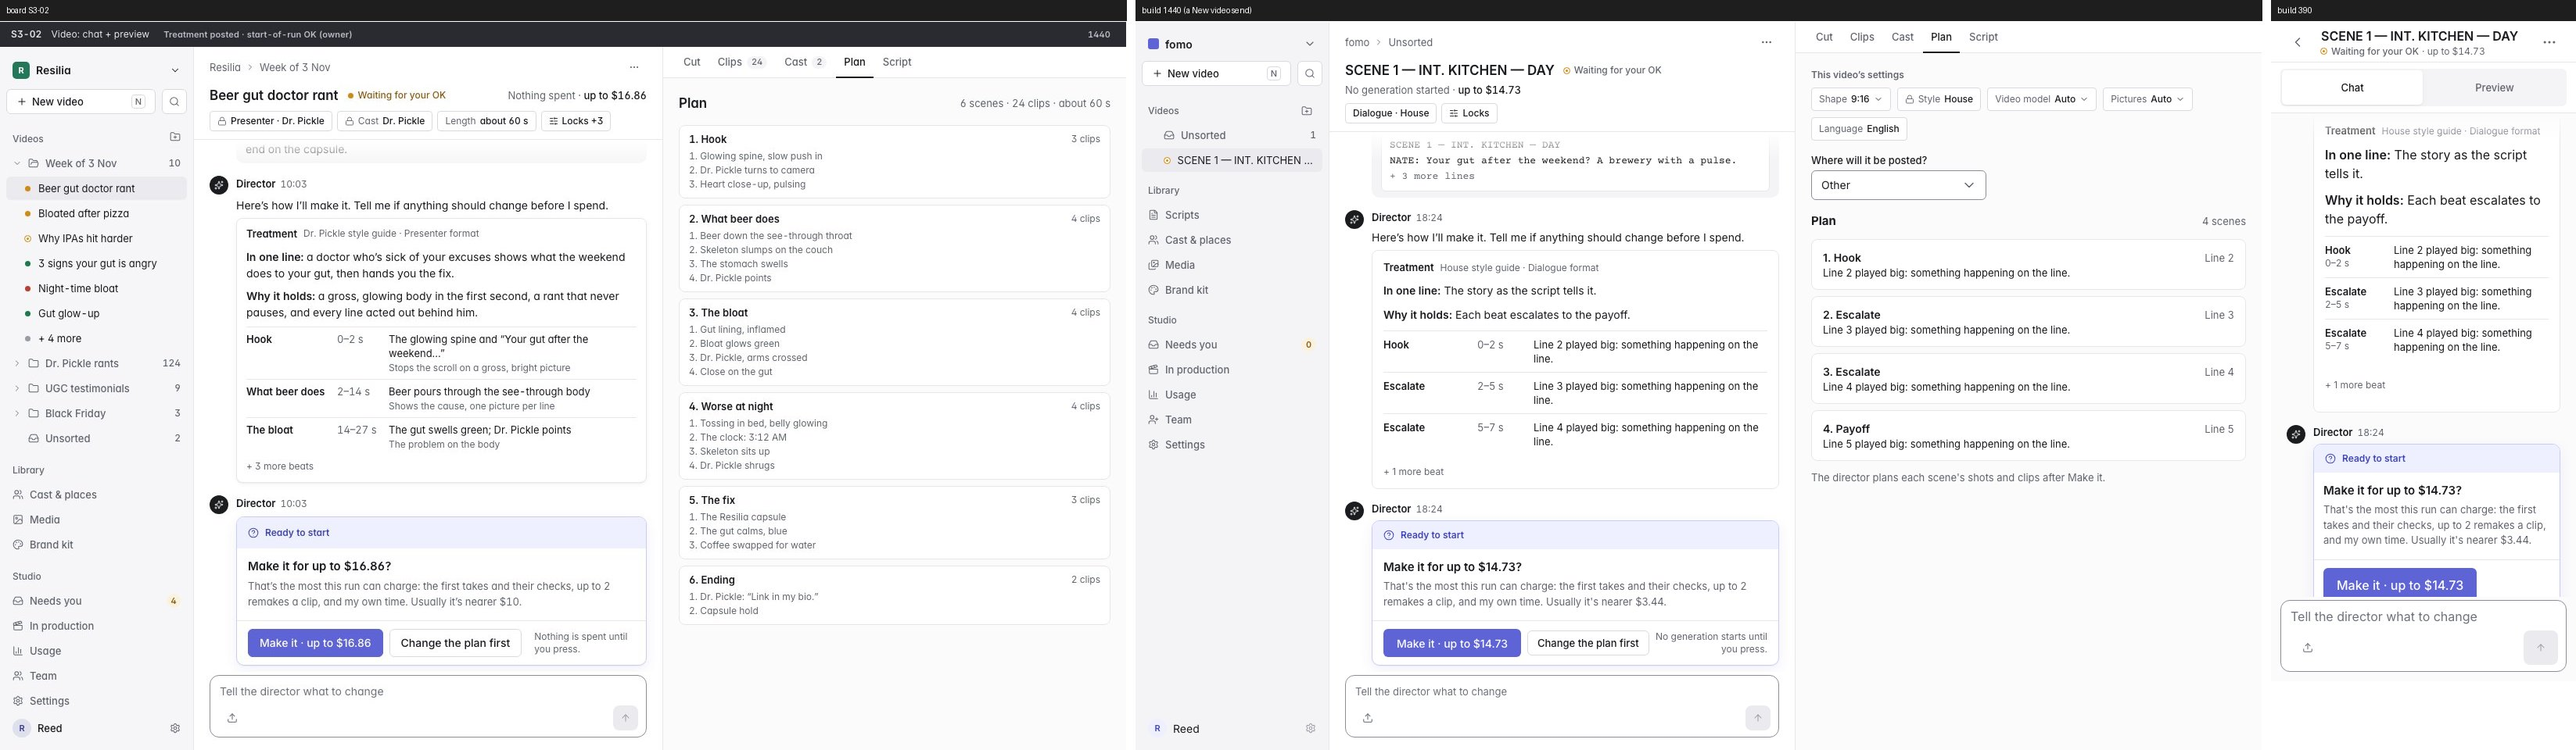
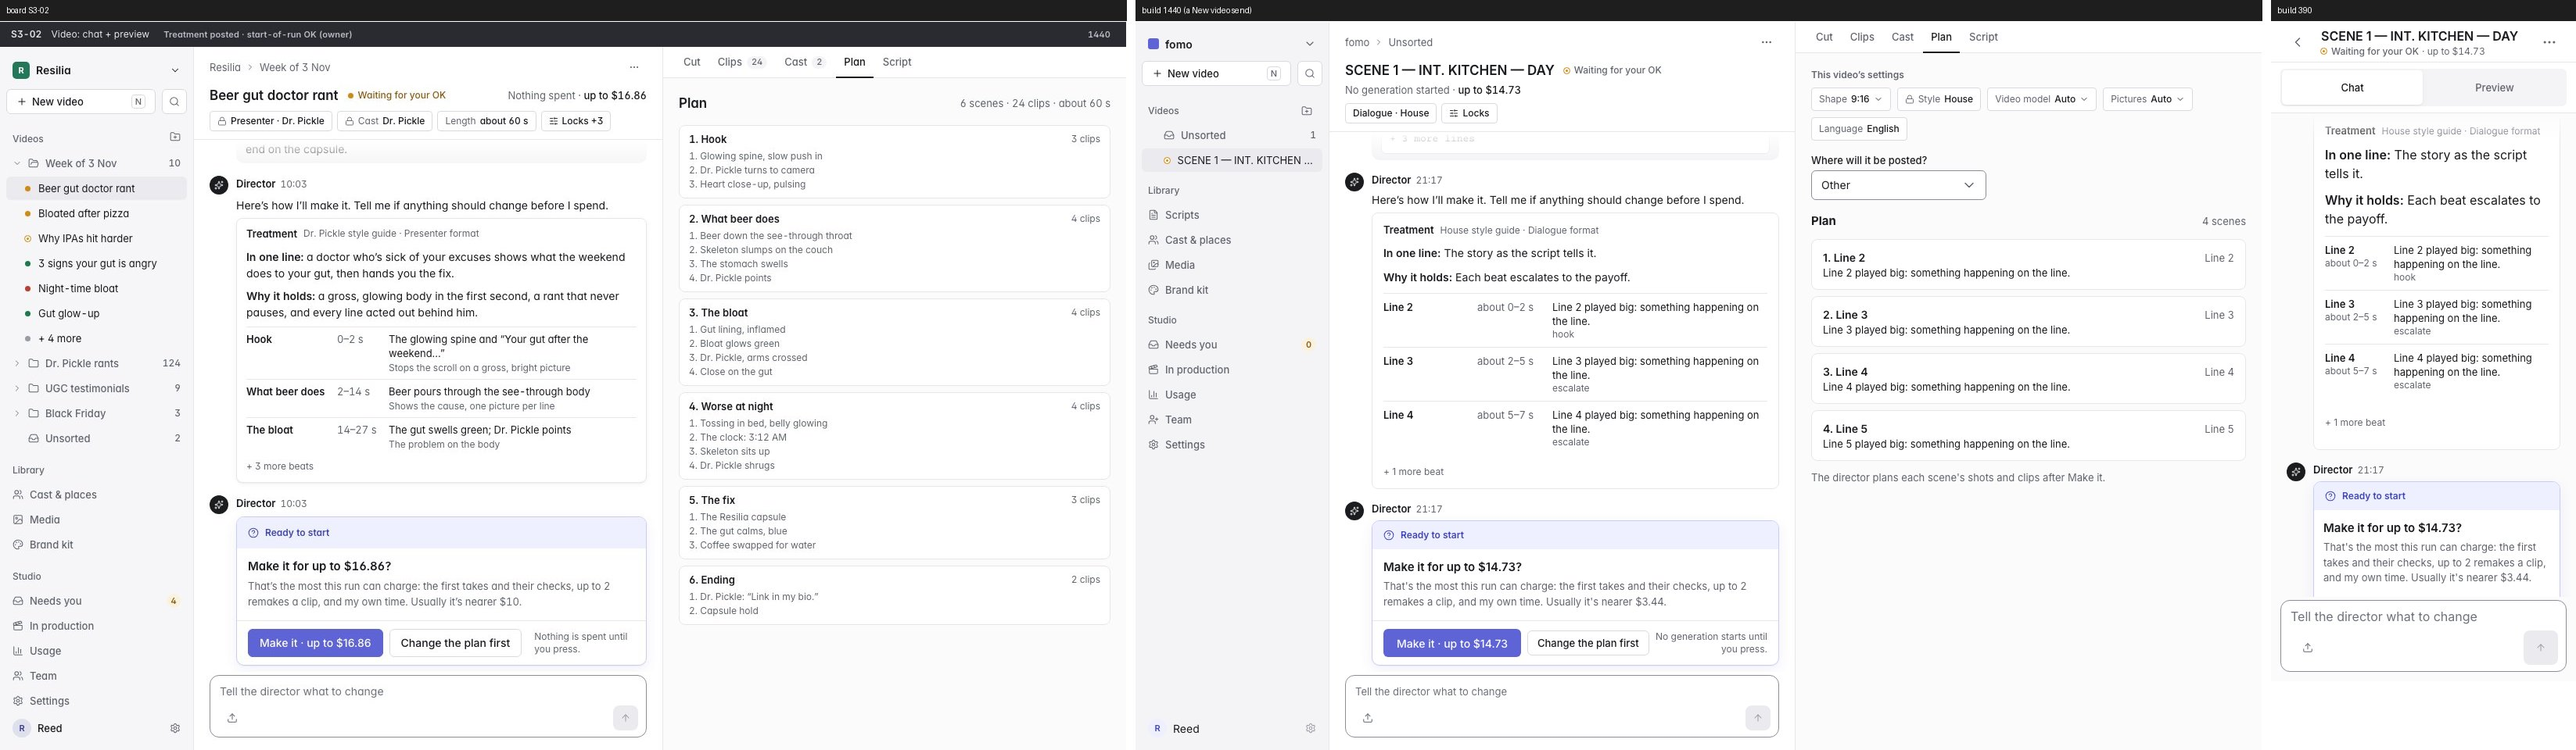
S3-02 QA: each beat has the director's own name, its purpose as written under it, and its time marked as a guess
- schemas.Beat gains a required `name` ("What beer does"); treatment.md asks for it; the stand-in names its beats; the
  word-for-word check reads it too. The treatment is its own answer: still 0 optional and 0 union parameters.
- The card shows the name in bold and the purpose as the director wrote it underneath (no more splitting a sentence at
  its commas); a treatment from before names falls back to its purpose. The Plan tab's scenes use the name too.
- Times read "about 2-14 s".

diff --git a/web/src/videos/Treatment.tsx b/web/src/videos/Treatment.tsx
@@ -3,7 +3,7 @@ import { useState } from "react";
 /** The director's creative treatment, its first move on every run (Next-Lead; #1192): the hook, the story in one line,
  *  why it holds, the beats with what each is for, and the ending. It rides on its thread move as `treatment`, with its
  *  style and format named and each beat's time (S3-02); until the server sends that field nothing shows. */
-export type Beat = { id?: string; lines?: number[]; purpose: string; picture: string; start?: number; end?: number };
+export type Beat = { id?: string; name?: string; lines?: number[]; purpose: string; picture: string; start?: number; end?: number };
 export type Treatment = { hook: string; logline: string; why_it_holds: string; beats: Beat[]; ending?: string; style?: string; format?: string };
 
 /** A move's treatment, when the server sends one (#1192's ThreadItem.treatment). */
@@ -13,13 +13,6 @@ export function treatmentOf(item: object): Treatment | null {
 }
 
 const SHOWN = 3; // beats before "+ N more beats" (board S3-02)
-
-/** A beat's purpose as its row reads it: the name ("Hook"), then what it's for when the director says more. */
-function named(purpose: string): [string, string] {
-  const [name, ...rest] = purpose.split(/:\s|\s[—–-]\s|,\s/);
-  const head = name.trim();
-  return [head.charAt(0).toUpperCase() + head.slice(1), rest.join(", ").trim()];
-}
 
 /** The treatment as a card at its place in the thread (board S3-02): the director's line before it, then the style guide
  *  and format it follows, the story in one line, why it holds, and the beats with their times; a later one says Changed. */
@@ -47,15 +40,18 @@ export function TreatmentCard({ t, changed }: { t: Treatment; changed?: boolean 
           <caption className="sr-only">Beats</caption>
           <tbody>
             {beats.map((b, i) => {
-              const [name, why] = named(b.purpose);
-              const when = b.start != null && b.end != null ? `${b.start}–${b.end} s` : "";
+              // The director's own name for the beat, its purpose as it wrote it underneath (a treatment from before
+              // beats had names: its purpose is the name). The times are a guess from the words.
+              const name = b.name || b.purpose.charAt(0).toUpperCase() + b.purpose.slice(1);
+              const why = b.name ? b.purpose : "";
+              const when = b.start != null && b.end != null ? `about ${b.start}–${b.end} s` : "";
               return (
                 <tr key={b.id ?? i} className="border-t border-border align-top">
                   <th scope="row" className="w-[7.5rem] py-2 pr-3 text-left font-semibold max-lg:w-[5.5rem]">
                     {name}
                     {when && <span className="block text-xs font-normal text-muted tabular-nums lg:hidden">{when}</span>}
                   </th>
-                  <td className="w-[4.5rem] whitespace-nowrap py-2 pr-3 text-muted tabular-nums max-lg:hidden">{when}</td>
+                  <td className="w-[6rem] whitespace-nowrap py-2 pr-3 text-muted tabular-nums max-lg:hidden">{when}</td>
                   <td className="py-2">
                     {b.picture}
                     {why && <span className="block text-xs text-muted">{why}</span>}
@@ -100,7 +96,7 @@ export function TreatmentPlan({ t, seconds }: { t: Treatment; seconds?: number |
           <li key={b.id ?? i} aria-label={`Scene ${i + 1}`} className="rounded-lg border border-border bg-surface px-3.5 py-3">
             <div className="flex items-baseline justify-between gap-3">
               <h3 className="font-semibold">
-                {i + 1}. {b.purpose.charAt(0).toUpperCase() + b.purpose.slice(1)}
+                {i + 1}. {b.name || b.purpose.charAt(0).toUpperCase() + b.purpose.slice(1)}
               </h3>
               {lineSpan(b.lines) && <span className="shrink-0 text-sm text-muted tabular-nums">{lineSpan(b.lines)}</span>}
             </div>

diff --git a/web/src/videos/videopage.test.tsx b/web/src/videos/videopage.test.tsx
@@ -236,9 +236,9 @@ test("before the owner's OK an editor's send opens by its freestyle: the script 
 test("S3-02: the director's treatment is a card in the thread, as the board draws it; a new one says Changed", async () => {
   setViewport(1440);
   const beats = [
-    { id: "b1", purpose: "hook: stops the scroll on a gross, bright picture", picture: "The glowing spine and “Your gut after the weekend…”", start: 0, end: 2 },
-    { id: "b2", purpose: "What beer does", picture: "Beer pours through the see-through body", start: 2, end: 14 },
-    { id: "b3", purpose: "escalate", picture: "The gut swells green", start: 14, end: 27 },
+    { id: "b1", name: "Hook", purpose: "Stops the scroll on a gross, bright picture", picture: "The glowing spine and “Your gut after the weekend…”", start: 0, end: 2 },
+    { id: "b2", name: "What beer does", purpose: "Shows the cause, one picture per line", picture: "Beer pours through the see-through body", start: 2, end: 14 },
+    { id: "b3", purpose: "escalate", picture: "The gut swells green", start: 14, end: 27 }, // from before beats had names
     { id: "b4", purpose: "turn", picture: "The capsule", start: 27, end: 40 },
     { id: "b5", purpose: "payoff", picture: "Capsule hold", start: 40, end: 58 },
   ];
@@ -253,9 +253,9 @@ test("S3-02: the director's treatment is a card in the thread, as the board draw
   expect(within(first).getByText("Why it holds:")).toBeInTheDocument();
   const rows = within(first).getAllByRole("row"); // its time beside the name on a computer, under it on a phone
   expect(rows.map((r) => r.textContent)).toEqual([
-    "Hook0–2 s0–2 sThe glowing spine and “Your gut after the weekend…”stops the scroll on a gross, bright picture",
-    "What beer does2–14 s2–14 sBeer pours through the see-through body",
-    "Escalate14–27 s14–27 sThe gut swells green",
+    "Hookabout 0–2 sabout 0–2 sThe glowing spine and “Your gut after the weekend…”Stops the scroll on a gross, bright picture",
+    "What beer doesabout 2–14 sabout 2–14 sBeer pours through the see-through bodyShows the cause, one picture per line",
+    "Escalateabout 14–27 sabout 14–27 sThe gut swells green",
   ]);
   expect(within(first).queryByText(/Ending:/)).toBeNull();
   await userEvent.click(within(first).getByRole("button", { name: "+ 2 more beats" }));

diff --git a/server/tests/test_prompts.py b/server/tests/test_prompts.py
@@ -1885,3 +1885,19 @@ def test_the_director_defers_to_the_styles_rhythm_and_its_sound_effects():
     assert "where the video's style guide calls for them on its silent shots" in director
     assert ("A style whose guide doesn't ask for sound effects gets them only when a person "
             "asks") in director  # fmt: skip
+
+
+def test_each_beat_has_the_directors_own_name():
+    """QA on #1403: the card named beats by their one-word purpose ("Hook / Escalate"); the
+    director names each beat itself, a required field of its own answer."""
+    from anthropic.lib._parse._transform import to_json_output_format
+
+    sent = to_json_output_format(schemas.Treatment)["schema"]
+    assert "name" in sent["$defs"]["Beat"]["required"]
+    assert "`name` (a few words naming what happens in it" in (HERE / "treatment.md").read_text()
+    canned = schemas.Treatment.model_validate(prompts.stand_in_treatment("A: Hi.\nB: Bye."))
+    assert [b.name for b in canned.beats] == ["Line 1", "Line 2"]
+    quoted = {"hook": "", "logline": "", "why_it_holds": "", "ending": "",
+              "beats": [{"id": "b1", "name": "“Not in the script”", "lines": [1], "purpose": "hook",
+                         "picture": "x"}]}  # fmt: skip
+    assert any("isn't the script's words" in p for p in check.treatment(quoted, "A: Hi."))

diff --git a/server/app/prompts/__init__.py b/server/app/prompts/__init__.py
@@ -825,7 +825,7 @@ def stand_in_treatment(script: str) -> dict:
     lines = [n for n, line in enumerate(script.splitlines(), 1)
              if line.strip() and not heading.match(line)] or [1]  # fmt: skip
     last = len(lines)
-    beats = [{"id": f"b{i}", "lines": [n],
+    beats = [{"id": f"b{i}", "name": f"Line {n}", "lines": [n],
               "purpose": "hook" if i == 1 else "payoff" if i == last else "escalate",
               "picture": f"Line {n} played big: something happening on the line."}
              for i, n in enumerate(lines, 1)]  # fmt: skip

diff --git a/server/app/prompts/schemas.py b/server/app/prompts/schemas.py
@@ -613,6 +613,7 @@ class CutWatch(BaseModel):
 
 class Beat(BaseModel):
     id: str = Field(description="'b1', 'b2', … in order.")
+    name: str = Field(description="The beat's own short name, in a few words: 'What beer does'.")
     lines: list[int] = Field(description="The script line numbers this beat covers, in order.")
     purpose: str = Field(description="What it does for the story: hook, escalate, turn, payoff…")
     picture: str = Field(description="What we see: something happening, readable with no sound.")

diff --git a/server/app/prompts/check.py b/server/app/prompts/check.py
@@ -1307,7 +1307,7 @@ def treatment(made: dict, script: str) -> list[str]:
 
     flat = bare(" ".join(lines))
     texts = [made.get(k, "") for k in ("hook", "logline", "why_it_holds", "ending")]
-    texts += [b.get(k, "") for b in made.get("beats", []) for k in ("purpose", "picture")]
+    texts += [b.get(k, "") for b in made.get("beats", []) for k in ("name", "purpose", "picture")]
     for text in texts:
         for quote in QUOTED.findall(text):
             words = bare(quote)

diff --git a/server/app/prompts/treatment.md b/server/app/prompts/treatment.md
@@ -11,7 +11,7 @@ You are the director of a short vertical brand video (Reels, TikTok, Shorts), an
 - `hook`: the first 2 seconds, what we see and hear. It opens on the conflict or the most striking picture, never on setup, a logo or someone standing still. It uses the script's first line as written.
 - `logline`: the story in one plain sentence: who, what they want, what happens.
 - `why_it_holds`: why a viewer of this look keeps watching, in one or two sentences (the escalation, the gag, the reveal, the question it plants).
-- `beats`: the video in order, each covering one or more script lines (`lines`, their numbers; together every line that isn't a scene heading (SCENE, INT., EXT.), once, in order), with its `purpose` (what it does for the story: hook, escalate, turn, reveal, payoff, call to action) and its `picture` (what we see: something happening, vivid and exaggerated, made for a phone, readable with the sound off). Give each beat an `id` (b1, b2, …). A beat with nothing happening in it is a beat to rethink.
+- `beats`: the video in order, each covering one or more script lines (`lines`, their numbers; together every line that isn't a scene heading (SCENE, INT., EXT.), once, in order), with its `name` (a few words naming what happens in it, as the team would call it: "What beer does", "The bloat"), its `purpose` (what it does for the story: hook, escalate, turn, reveal, payoff, call to action) and its `picture` (what we see: something happening, vivid and exaggerated, made for a phone, readable with the sound off). Give each beat an `id` (b1, b2, …). A beat with nothing happening in it is a beat to rethink.
 - In a song or narrated video, name one world in the first beat's `picture`: one framing device when the story has one (a game show: rated on the set, pan to the big screen, push into the real world) and the set described once, so every scene can repeat it word for word.
 - `ending`: the payoff, and the call to action when the script has one, and why they land. When a later picture answers an earlier one, call it a callback.
 
